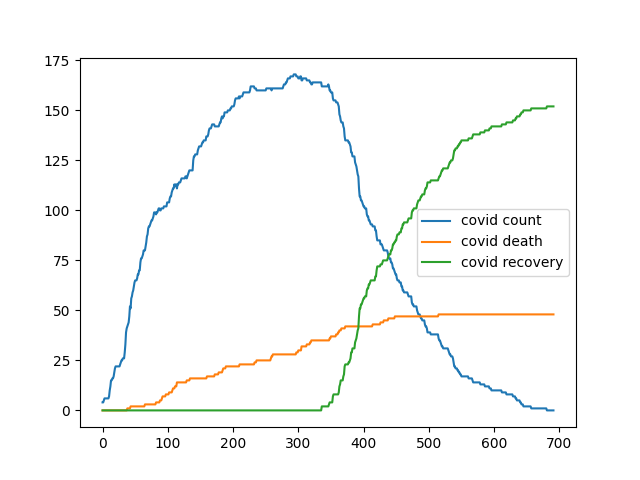
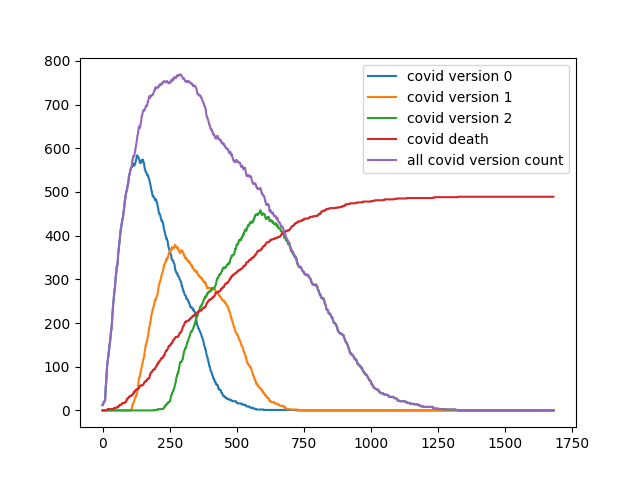
stats support for multi version covid

diff --git a/environment.py b/environment.py
@@ -3,13 +3,13 @@ import matplotlib.pyplot as plt
 
 # incubation period of covid
 HIDDEN_TIME = 20
-# COVID mutate chance 
-MUTATE_PROB = 0
+# COVID mutate chance (# in one chance)
+MUTATE_PROB = 200000
 # infection rate (percentage) at different location
 # household infection rate reference: https://www.cdc.gov/mmwr/volumes/69/wr/mm6944e1.htm
 # office infection rate reference: https://www.cdc.gov/coronavirus/2019-ncov/php/community-mitigation/non-healthcare-work-settings.html
 # gym infection rate reference: https://www.advisory.com/en/daily-briefing/2021/03/01/gym-infections
-INFECTION_RATE = {"home": 53, "office": 25, "gym": 68}
+INFECTION_RATE = {"home": 53/100, "office": 25/100, "gym": 68/100}
 # maximum possible age
 MAX_AGE = 100
 # vaccine development cycle
@@ -99,29 +99,30 @@ class Person:
     def act(self, current_time):
         global closed_location_type, gathering_size_limit, testing_delay, vaccine_version, vaccination_age
         
-        # -2: just died, -1: have covid, 0: healthy, 1: recovered from covid, 2: got vaccine
+        # -3: covid mutated, -2: just died, -1: have covid, 0: healthy, 1: recovered from covid, 2: got vaccine
         return_value = 0
         
         # covid development
         if self.covid >= 0:
-            return_value = -1
-            # COVID mutate
-            if random.randrange(100) < MUTATE_PROB:
-               self.covid += 1 
-            
             # healing
             self.infection_time += 1
-            # die with possibility related to age
-            if random.random() <= death_prob[self.age]:
-                self.alive = False
-                self.location.remove(self)
-                return -2
             # fully heal
             if self.infection_time == self.recovery_time:
                 self.antibody = self.covid
                 self.covid = -1
                 self.infection_time = 0
                 return_value = 1
+            # die with possibility related to age
+            elif random.random() <= death_prob[self.age]:
+                self.alive = False
+                self.location.remove(self)
+                return -2
+            # COVID mutate
+            elif not random.randrange(MUTATE_PROB):
+               self.covid += 1
+               return_value = -3
+            else:
+                return_value = -1
 
         # check current location
         if self.location.type in closed_location_type:
@@ -179,7 +180,6 @@ class Location:
             infection_rate *= 0.25
         for person in self.people:
             person.get_covid(infection_rate, self.covid)
-        return self.covid
     
     def remove(self, person):
         self.people.remove(person)
@@ -206,7 +206,8 @@ class Environment:
         self.locations = []
         self.people = []
         self.time = 0
-        self.covid_version = -1
+        # assume we have covid to start with
+        self.covid_version = 0
 
         locations_construction = {
             "office": [],
@@ -244,6 +245,7 @@ class Environment:
         # stats features
         self.vaccine_counts = []
         self.covid_counts = []
+        self.total_covid_counts = []
         self.healthy_counts = []
         self.accu_death_counts = []
         self.accu_recover_counts = []
@@ -272,7 +274,8 @@ class Environment:
         # TODO: action[6] set vaccination wellingness. how to set test delay? boolean? number in range?
         
         # stats variables
-        covid_count = 0
+        mutation_indicator = False
+        covid_count = [0 for _ in range(self.covid_version + 1)]
         healthy_count = 0
         vaccine_count = 0
         accu_death_count = self.accu_death_counts[-1] if self.accu_death_counts else 0
@@ -289,23 +292,35 @@ class Environment:
                 accu_recover_count += 1
                 healthy_count += 1
             elif action_return == -1:
-                covid_count += 1
+                covid_count[person.covid] += 1
             elif action_return == -2:
                 accu_death_count += 1
+            elif action_return == -3:
+                if self.covid_version < person.covid:
+                    covid_count.append(1)
+                    self.covid_version = person.covid
+                else:
+                    covid_count[person.covid] += 1
             else:
                 healthy_count += 1
         self.vaccine_counts.append(vaccine_count)
-        self.covid_counts.append(covid_count) 
         self.accu_death_counts.append(accu_death_count)
         self.accu_recover_counts.append(accu_recover_count)
         self.healthy_counts.append(healthy_count)
+        self.total_covid_counts.append(sum(covid_count))
 
-        print("covid", covid_count, "death", accu_death_count, "recover", accu_recover_count, "healthy", healthy_count, "vaccine", vaccine_count)
+        while self.covid_version + 1 > len(self.covid_counts):
+            self.covid_counts.append([0 for _ in range(self.time)])
+        for version, count in enumerate(covid_count):
+            self.covid_counts[version].append(count)    
+
+        print("covid version", self.covid_version)
+        print("covid", sum(covid_count), "death", accu_death_count, "recover", accu_recover_count, "healthy", healthy_count, "vaccine", vaccine_count)
 
 
         for location in self.locations:
             if location.type not in closed_location_type:
-                self.covid_version = max(self.covid_version, location.infect())
+                location.infect()
         if vaccine_version < self.covid_version:
             vaccine_dev_time = random.randrange(MAX_VACCINE_DEVELOPMENT_TIME)
             
@@ -329,9 +344,11 @@ class Environment:
     
     def plot(self):
         time_line = [t for t in range(self.time)]
-        plt.plot(time_line, self.covid_counts, label = "covid count")
+        for covid_version, covid_count in enumerate(self.covid_counts):
+            plt.plot(time_line, covid_count, label = "covid version " + str(covid_version))
         plt.plot(time_line, self.accu_death_counts, label = "covid death")
-        plt.plot(time_line, self.accu_recover_counts, label = "covid recovery")
+        plt.plot(time_line, self.total_covid_counts, label = "all covid version count")
+        # plt.plot(time_line, self.accu_recover_counts, label = "covid recovery")
         # plt.plot(time_line, self.healthy_counts, label = "healthy people")
         plt.legend()
         plt.savefig('test.png')
@@ -368,16 +385,17 @@ ACTION_TEMPLATE_2 = [(9, "office"), (17, "home")]
 
 def main():
     locations = [("gym", 5), ("office", 3), ("home", 100)]
-    people = [(70, 80, ACTION_TEMPLATE_1, 100), (40, 80, ACTION_TEMPLATE_2, 100)] 
+    people = [(70, 80, ACTION_TEMPLATE_1, 500), (40, 80, ACTION_TEMPLATE_2, 500)] 
     env = Environment(locations, people)
 
     while True:
         env.print_time()
-        # actions = list(map(int, list(input("Enter your actions:"))))
-        if(input("Hit Enter to continue...\n")):
-            env.plot()
         actions = [0,0,0]
         env.step(actions)
+        # actions = list(map(int, list(input("Enter your actions:"))))
+        if not (env.time-1) % 240 and input("Hit Enter to continue...\n"):
+                env.plot()
+        
         # env.print_general_info()
 
 if __name__ == "__main__":
